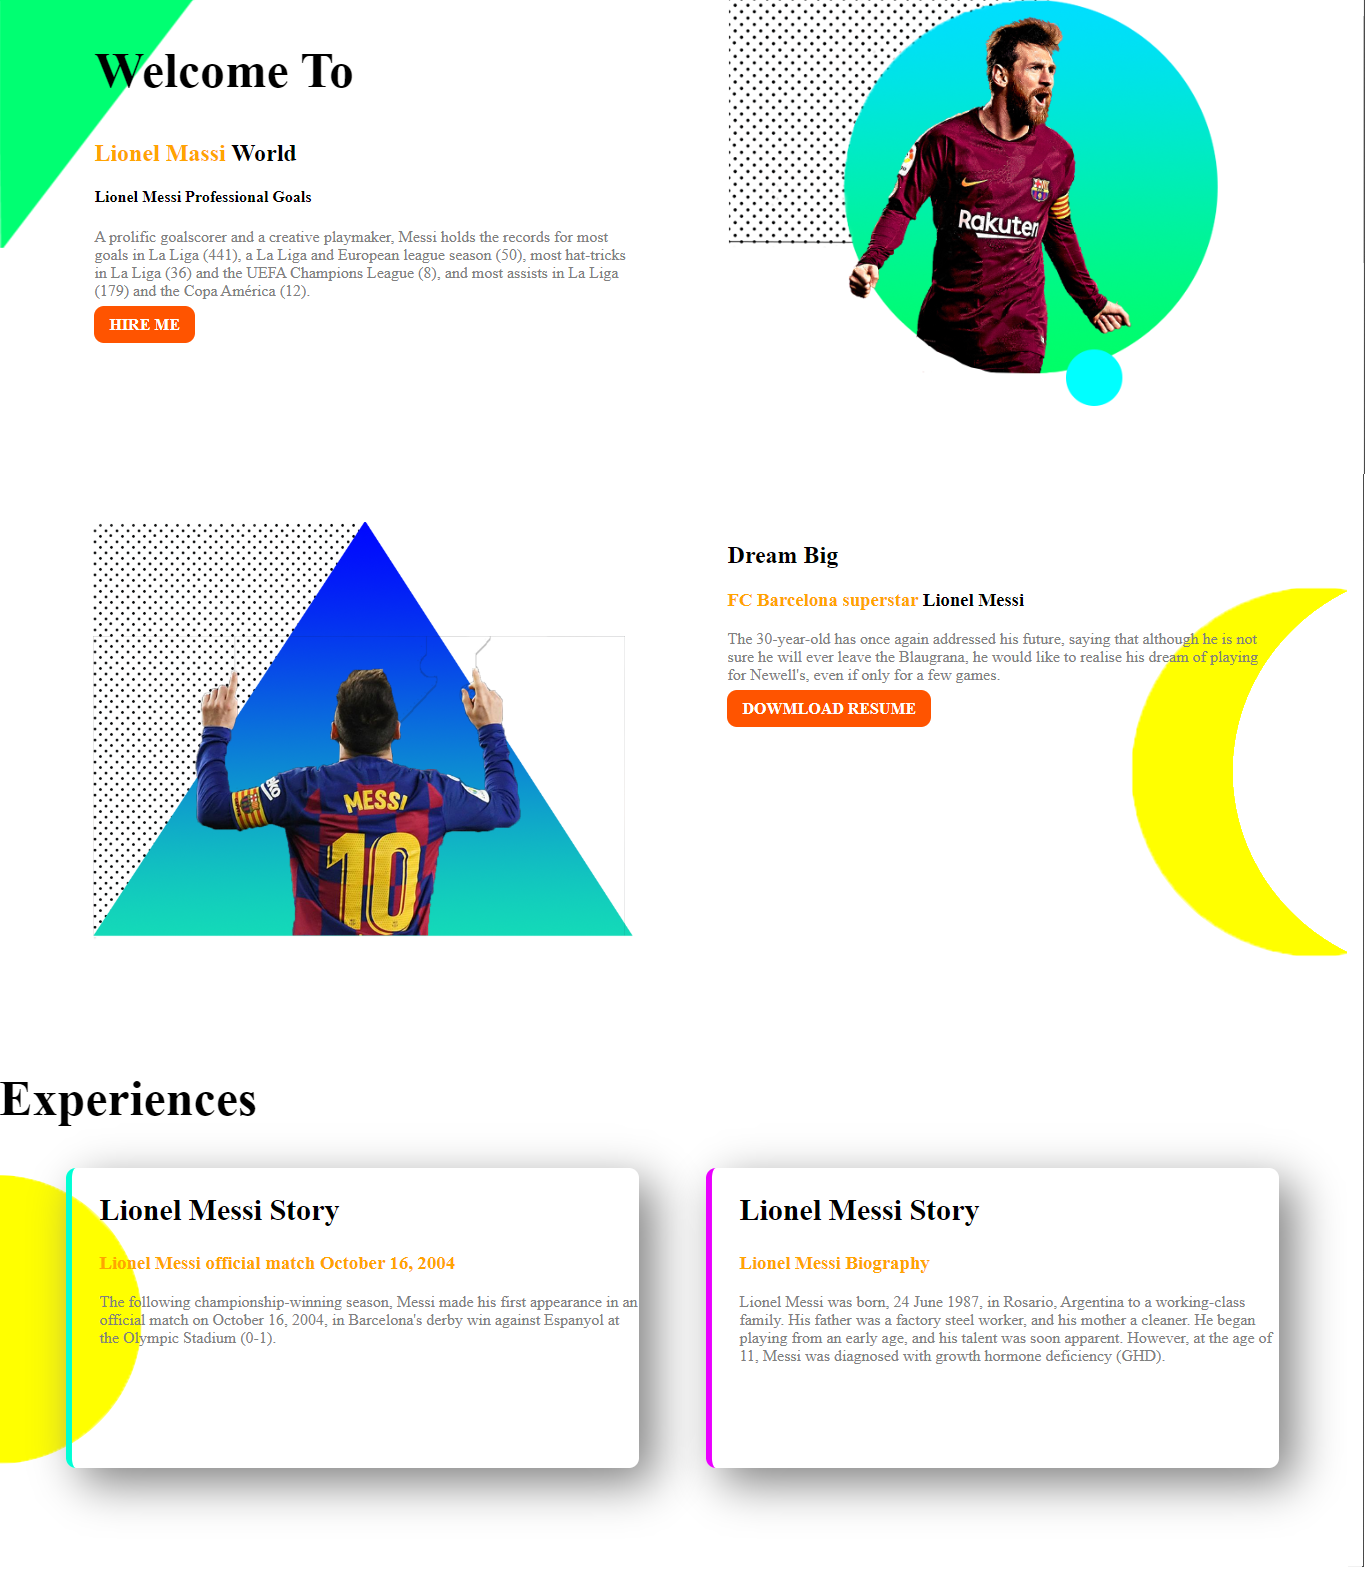
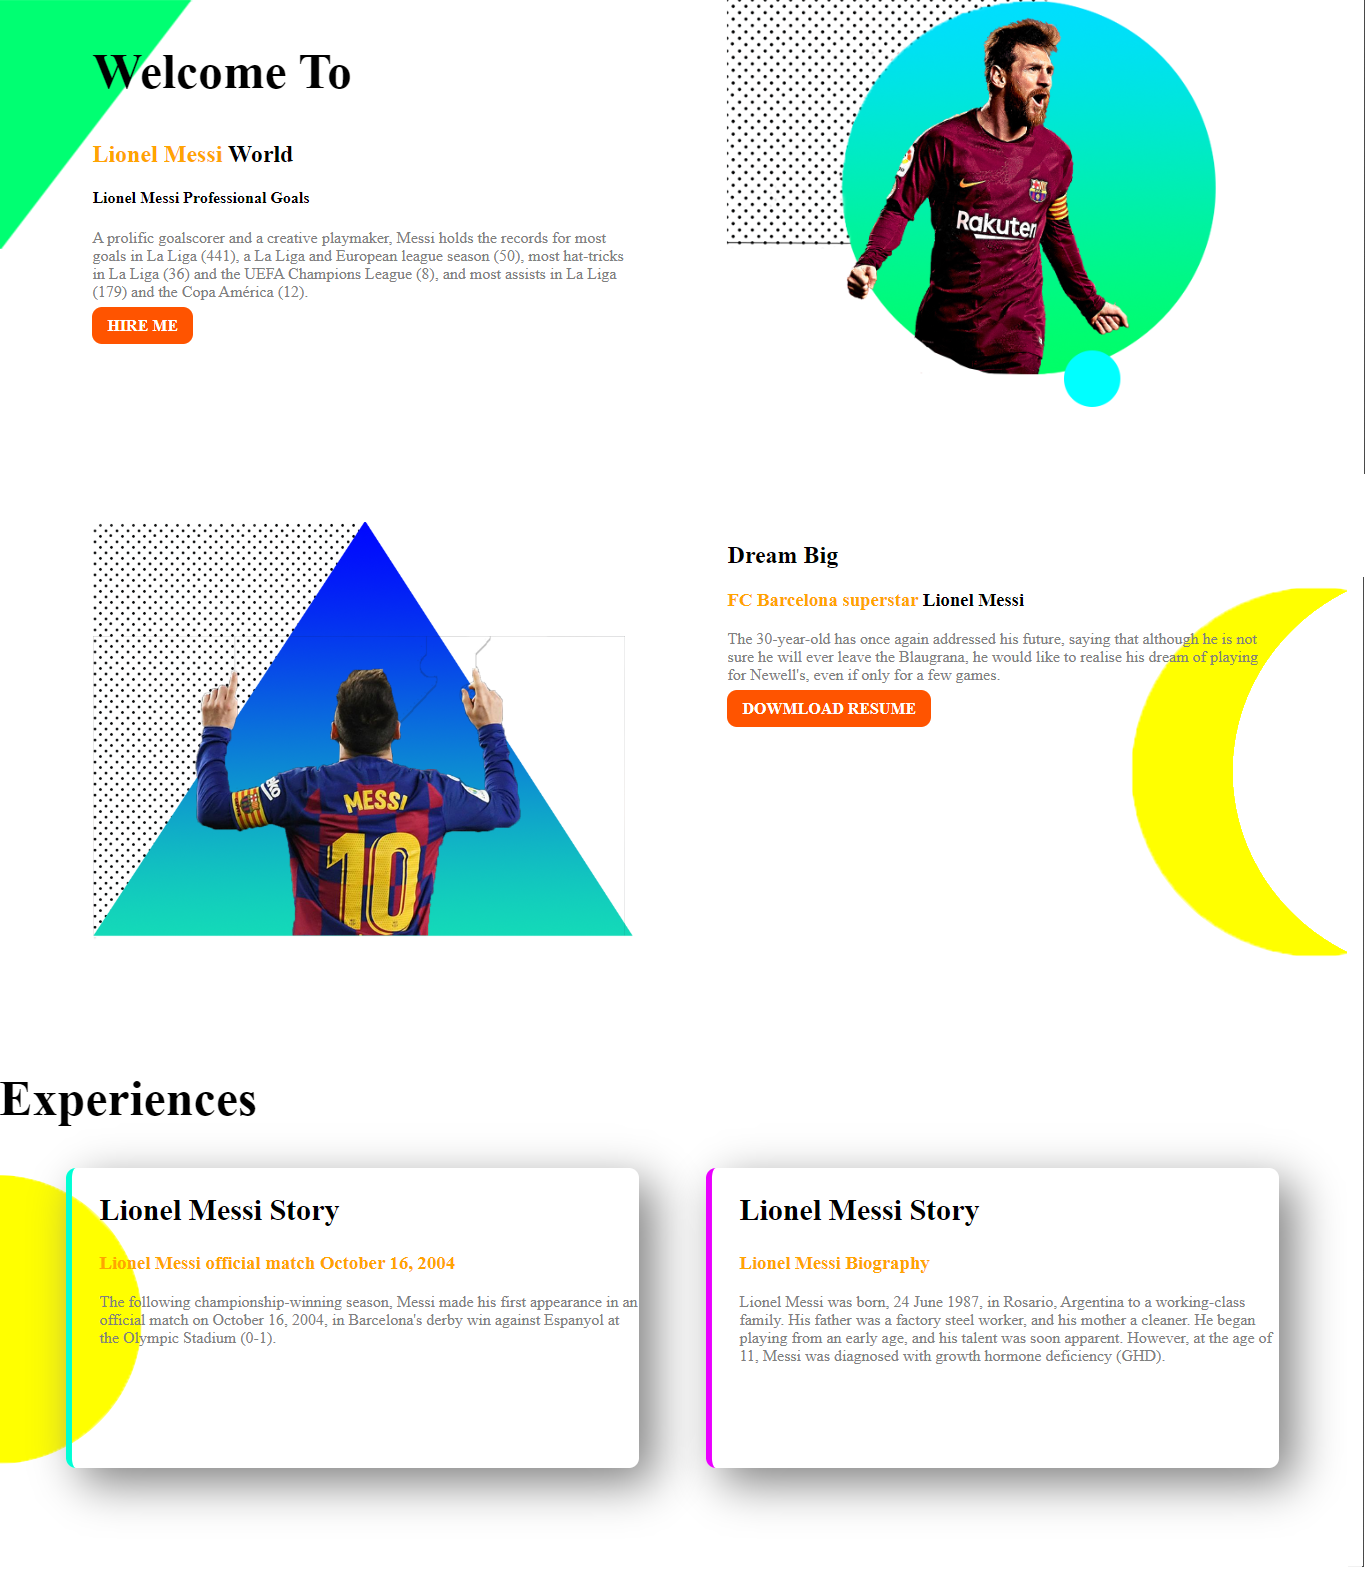
three commit

diff --git a/style.css b/style.css
@@ -1,5 +1,7 @@
 body{
     margin: 0px;
+    font-family: 'Roboto', sans-serif;
+
 }
 h1{
     font-size: 50px;
@@ -20,11 +22,11 @@ h1{
 }
 .top-button{
     text-decoration: none;
-    color: white ;
-    background-color: #ff5400;
+    color:white;
     padding: 10px 15px;
     border-radius: 10px;
     font-weight: 700;
+    background-image: linear-gradient(45deg, lightsalmon, tomato);
 }
 .top-img{
     background-image: url("img/bg-1png.png");

diff --git a/index.html b/index.html
@@ -4,6 +4,8 @@
     <meta charset="UTF-8">
     <meta name="viewport" content="width=device-width, initial-scale=1.0">
     <link rel="stylesheet" href="style.css">
+    <link href="https://fonts.googleapis.com/css2?family=Roboto&display=swap" rel="stylesheet">
+
     <title>Lionel Messi</title>
 </head>
 <body>
